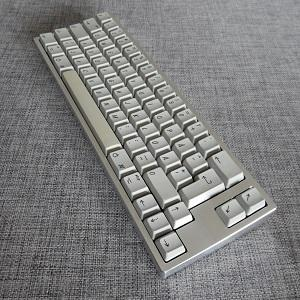
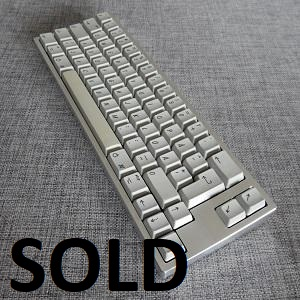
update selling aug 2020

Changed region(s): [[0.03, 0.78, 0.63, 0.99]]

diff --git a/index.html b/index.html
@@ -76,11 +76,8 @@
 		<a href="decent65proto.html">Decent65 prototype</a>
 		<a href="blacktofu.html">Black Tofu</a>
 		<a href="i69.html">i69</a>
-	    <a href="borsdorf.html">Borsdorf</a>
 		<a href="idb60proto.html">idb60 prototype</a>
-	    <a href="bokcp.html">Bok.cp</a>
 	    <a href="cypher.html">Cypher keyboard 2</a>
-	    <a href="preonicrev3.html">Preonic rev3</a>
 	    <a href="idb60xtproto.html">idb 60xt prototype</a>
 	    <a href="gregg.html">Gregg</a>
 		</div>
@@ -94,7 +91,7 @@
 	<div class="row">
       <div class="four columns">
 	   <h5>About this site</h5>
-	   <p>This is just a way to catalogue my ever growing collection of mechanical keyboards with some noteworthy information regarding each. There is no proper order below, but I try to keep newest first.</p>
+	   <p>This is just a way to catalogue my collection of mechanical keyboards with some noteworthy information regarding each. There is no proper order below, but I try to keep newest first.</p>
 	  </div>
 	  <div class="four columns">
 	   <h5>Keyboards</h5>
@@ -291,26 +288,6 @@ The case has superior finish and the weight and the logo on it is superb. Simple
 						</a>
 					</li>													
 					<li>
-						<a href="borsdorf.html" data-largesrc="assets/images/borsdorf/3.jpg" data-title="Borsdorf" data-description=
-						"
-						<b>Board: </b>Borsdorf custom keyboard</br>
-						<b>Layout: </b>60% with arrow cluster and two nav keys</br>
-						<b>Mount: </b>Top mount</br>
-						<b>Plate: </b>Carbon fiber</br>
-						<b>PCB: </b>Cyclops</br>
-						<b>Switches: </b>Cream Alps</br>
-						<b>Keycaps: </b>Original keycaps from an Apple AEK II</br>
-						<b>Aquired: </b>May 2019</br></br>
-						<b>Additional information:</b></br>
-The Borsdorf keyboard was a small discord groupbuy by DarthWTF. Approximately 10 units were made. 
-It has a carbon fiber plate and original keycaps, switches and stabilizers from an old Apple AEK II keyboard. It has the signature thinner ISO enter.
-The layout is between 60% and 65% with dedicated arrow cluster and a couple of nav keys. The size is still compact and the extra keys makes it more useable for me over a standard 60% keyboard since I like my arrows.
-						"
-						>
-							<img src="images/borsdorf.jpg" alt="borsdorf" width="300"/>
-						</a>
-					</li>
-					<li>
 						<a href="idb60proto.html" data-largesrc="assets/images/idb60/6.jpg" data-title="idb60 prototype" data-description=
 						"
 						<b>Board: </b>idb60 prototype in alu with raw bottom and buffed top</br>
@@ -331,27 +308,6 @@ Layout is 60% WKL with stepped CapsLock and split right shift. It is built with 
 						</a>
 					</li>
 					<li>
-						<a href="bokcp.html" data-largesrc="assets/images/bokcp/0.jpg" data-title="Bok.cp antique copper" data-description=
-						"
-						<b>Board: </b>Bok.cp in antique copper anodization</br>
-						<b>Layout: </b>Compact 1800</br>
-						<b>Mount: </b>Top mount</br>
-						<b>Plate: </b>Brass</br>
-						<b>PCB: </b>Leeku L3 Compact</br>
-						<b>Switches: </b>Vintage Cherry blacks with Cherry grey spacebar. Lubed with GPL104</br>
-						<b>Keycaps: </b>GMK White on black</br>
-						<b>Aquired: </b>March 2019</br></br>
-						<b>Additional information:</b></br>
-This is a keyboard called Bok.cp from TX keyboards but without the TX “lip” and designed by Bok instead of LZ (Don’t quote me on this though).
-The layout is a compact 1800, hence the cp in the name. The finish is called antique copper and is exquisite. No marks, flaws or inconsistensies.
-Both plate and weight are brass and there’s an acrylic diffuser layer between the aluminium top and bottom part. 
-The stabilizers are GMK screw-ins.
-						"
-						>
-							<img src="images/bokcp.jpg" alt="bokcp" width="300"/>
-						</a>
-					</li>
-					<li>
 						<a href="cypher.html" data-largesrc="assets/images/cypher/5.jpg" data-title="Cypher silver top" data-description=
 						"
 						<b>Board: </b>Cypher with silver top and grey bottom</br>
@@ -369,27 +325,6 @@ Furthermore do they have three leds between numlock and backspace for caps lock,
 						"
 						>
 							<img src="images/cypher2.jpg" alt="cypher2" width="300"/>
-						</a>
-					</li>
-					<li>
-						<a href="preonicrev3.html" data-largesrc="assets/images/preonic/3.jpg" data-title="Preonic Rev3" data-description=
-						"
-						<b>Board: </b>OLKB Preonic Rev3 in orange High Profile case</br>
-						<b>Layout: </b>50% ortho</br>
-						<b>Mount: </b>Tray</br>
-						<b>Plate: </b>Stainless steel</br>
-						<b>PCB: </b>OLKB Preonic Rev3</br>
-						<b>Switches: </b>Gateron Yellow, milky bot and Cherry black top. Lubed with GPL104</br>
-						<b>Keycaps: </b>ePBT Grayscale</br>
-						<b>Aquired: </b>February 2019</br></br>
-						<b>Additional information:</b></br>
-This is quite a good everyday carry keyboard since its small and not that heavy. Also ordered a pouch for it and thats padded making it quite protective.
-The mounting method has been improved vastly since previous version, but it's still not the best.
-Now there's an option to either mount the PCB to the case and have the switches securing the plate, or screwing both plate and PCB to the case.
-I went for the first option to minimize that the plate vibrations gets transported to the case. 
-						"
-						>
-							<img src="images/preonic.jpg" alt="preonic" width="300"/>
 						</a>
 					</li>
 					<li>
@@ -518,6 +453,16 @@ It's a good little artisan-holder atleast. No additional pictures in gallery.
 					<li>
 						<a href="alpstofu.html" data-title="Alps Tofu" data-description=>
 							<img src="images/alpstofu.jpg" alt="Alps Tofu" width="300"/>
+						</a>
+					</li>
+					<li>
+						<a href="bokcp.html" data-title="Bok.cp" data-description=>
+							<img src="images/bokcp.jpg" alt="Bok.cp" width="300"/>
+						</a>
+					</li>
+					<li>
+						<a href="borsdorf.html" data-title="borsdorf" data-description=>
+							<img src="images/borsdorf.jpg" alt="borsdorf" width="300"/>
 						</a>
 					</li>
 				</ul>

diff --git a/bokcp.html b/bokcp.html
@@ -82,6 +82,10 @@
 		PCB is a Leeku L3 compact with Mini-USB port and programmed using JiGon instead of much preferred QMK, but once the layout-differences between the software and the actual board got sorted it was quite easy to program.
 		This board is built with vintage (1984) MX blacks and with a MX grey spacebar switch, but tops swapped to milky Gateron ones.
 		All switches lubed with GPL104. The stabilizers are GMK screw-ins.
+		<br>
+		<br>
+		<h4>Update August 2020</h4>
+		Keyboard is sold
 	   </p>
 	  </div>
 	</div>

diff --git a/borsdorf.html b/borsdorf.html
@@ -85,6 +85,10 @@
 		<br>
 		<br>
 		It is such a sturdy and lovely keyboard, but the tactile cream Alps will probably be replaced with some linear green ones.
+		<br>
+		<br>
+		<h4>Update August 2020</h4>
+		Keyboard is sold
 	   </p>
 	  </div>
 	</div>
